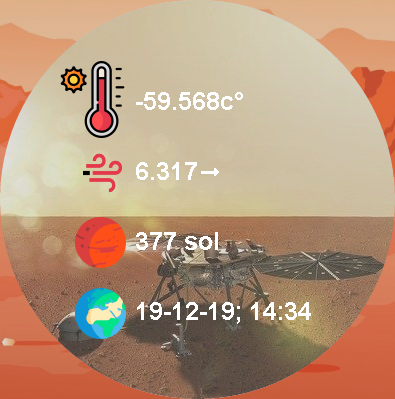
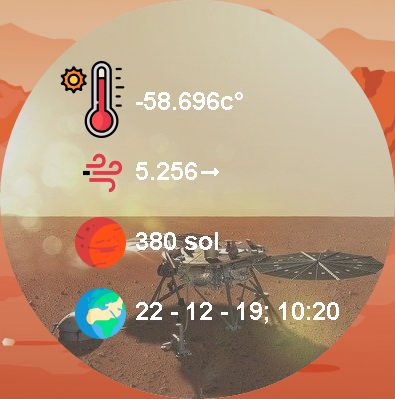
New date format

diff --git a/src/main/java/controller/JsonParser.java b/src/main/java/controller/JsonParser.java
@@ -73,6 +73,7 @@ public class JsonParser {
         int today =  allSols.length()-1;
         String currSolNum = (String)allSols.get(today);
         JSONObject currSol = (JSONObject)allArrs.get(currSolNum);
+        System.out.println(currSolNum);
 
         // Last Sol: Just for case. All data should be present.
         int yesterday =  allSols.length()-2;
@@ -116,6 +117,7 @@ public class JsonParser {
         // Trying to get today data, if can't - the using yesterday's data
         try {
             date = (String)currSol.get("Last_UTC");
+            System.out.println();
         } catch (JSONException e) {
             e.printStackTrace();
             System.out.println("Today date and time is not available yet.");
@@ -123,12 +125,12 @@ public class JsonParser {
         }
 
         String time = date.substring(11, 16);
-        date = date.substring(2, 10);
+        String formattedDate = date.substring(8, 10) + "-" + date.substring(5, 7) + "-" + date.substring(2, 4);
 
         String result = midTemp + "c°" +
                 "\n" + windSpeed + "→" +
                 "\n" + currSolNum + " sol" +
-                "\n" + date + "; " + time;
+                "\n" + formattedDate + "; " + time;
 
         return result;
     }
